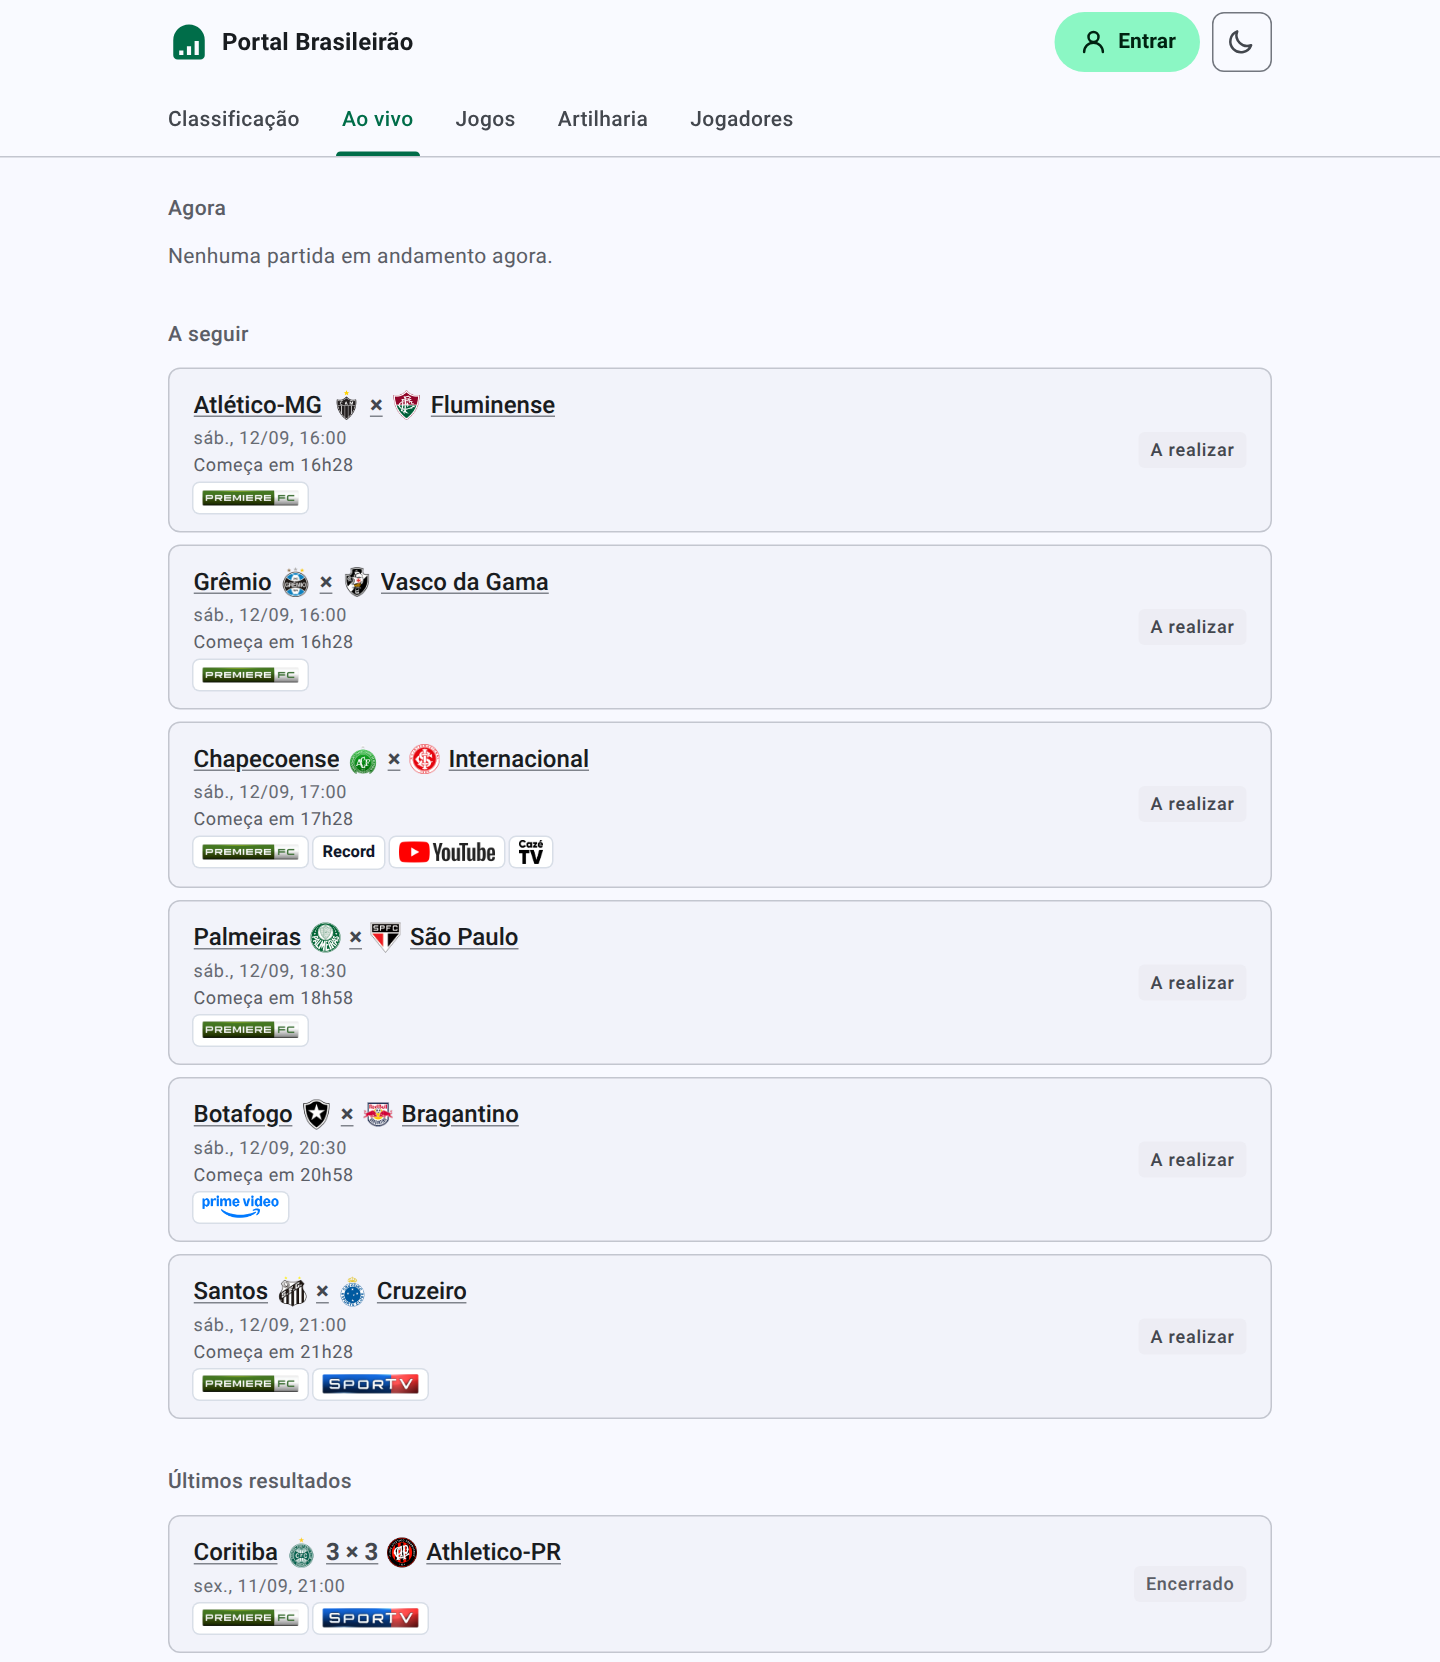
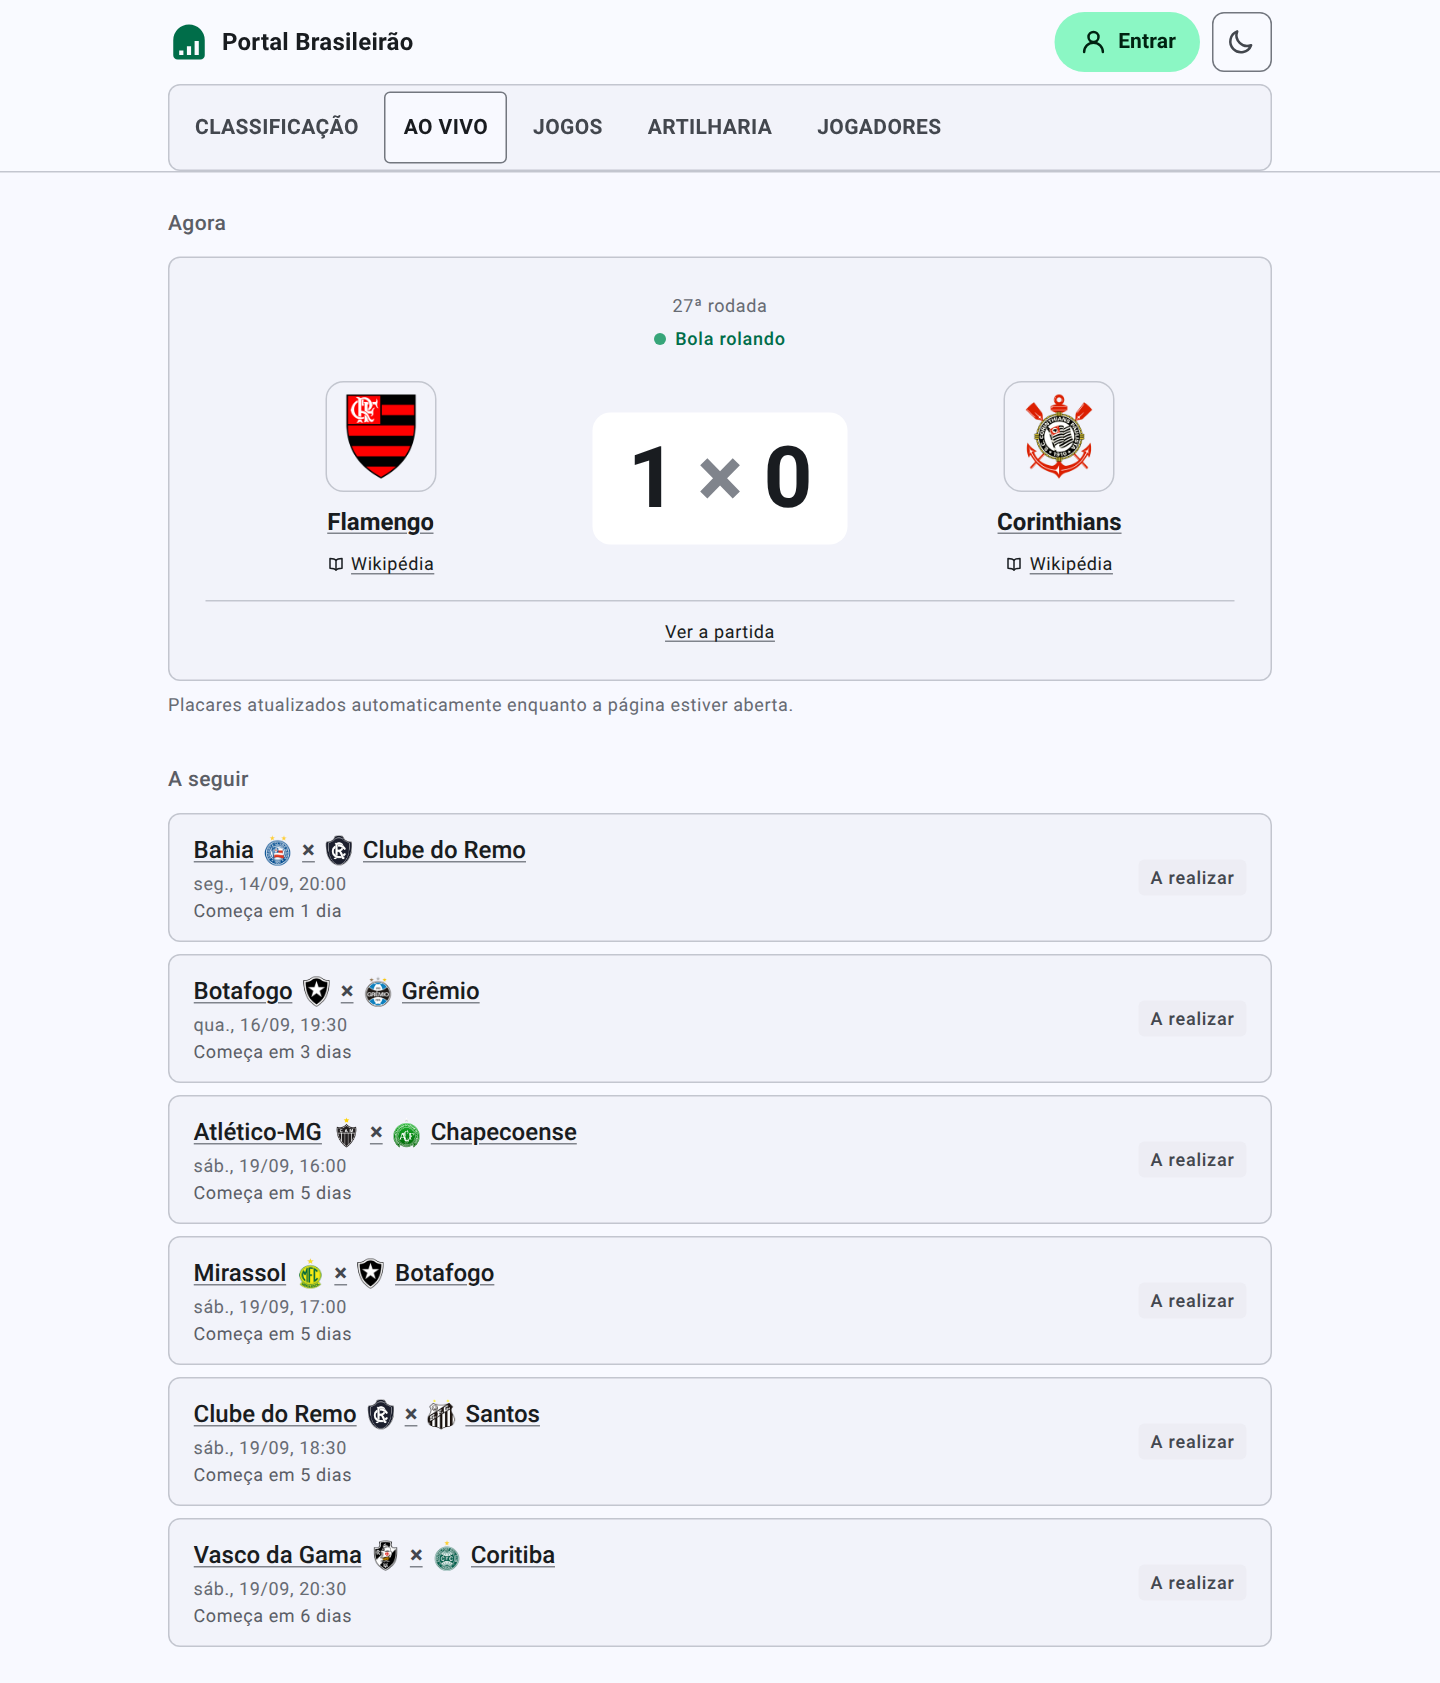
Re-shoot the Ao vivo screenshots for #601's scoreboard restyle
The live-card restyle in #601 (merged as ad4a25d) moved pixels inside
docs/screenshots/ao-vivo-{light,dark}.png — the "Agora" card now draws
the same bordered-crest, big-score scoreboard as the Partida page
instead of the old compact row. Re-shot from production at 097f3d5
(appearance-identical to ad4a25d: the one intervening commit only
touched club-discord.ts, outside scripts/appearance-paths.txt).

The bigger card also pushed the crop boundary to end partway through
"A seguir" rather than reaching "Últimos resultados", so both alt
texts are rewritten to describe the frame as it now is rather than as
it was.

diff --git a/README.md b/README.md
@@ -32,9 +32,9 @@ desktop shots above look no different. Five is Material Design 3's ceiling for t
 the bar is now at it: the labels fit at 375dp because the items carry no horizontal padding, and
 below 360dp the active indicator narrows rather than let the last destination fall off the edge.*
 
-![Página Ao vivo no tema claro, num momento sem jogo em curso: a secção Agora diz "Nenhuma partida em andamento agora." — o primeiro jogo da rodada já foi disputado e os outros são todos de amanhã. Abaixo, A seguir lista seis jogos, cada um com o nome de um clube, os dois escudos encostados ao × no meio e o nome do outro, a data, o horário, a contagem regressiva e a etiqueta A realizar, todos de sábado 12/09: Atlético-MG × Fluminense e Grêmio × Vasco da Gama às 16:00, ambos com o Premiere; Chapecoense × Internacional às 17:00, com Premiere, Record, YouTube e CazéTV; Palmeiras × São Paulo às 18:30, com o Premiere; Botafogo × Bragantino às 20:30, com o Prime Video; e Santos × Cruzeiro às 21:00, com Premiere e SporTV. Nenhum deles está a mais de um dia, por isso a contagem vem em horas e minutos em vez de dias — "Começa em 16h28" nos dois primeiros, e 17h28, 18h58, 20h58 e 21h28 nos seguintes. Por último, Últimos resultados abre com Coritiba 3 × 3 Athletico-PR de sexta 11/09 às 21:00, com os escudos encostados ao placar do mesmo modo, marcado Encerrado e com as marcas do Premiere e do SporTV, onde o enquadramento acaba](docs/screenshots/ao-vivo-light.png)
+![Página Ao vivo no tema claro, com um jogo em andamento: a secção Agora mostra um único cartão no estilo placar da página da partida — a 27ª rodada e, abaixo, Bola rolando com um ponto verde intermitente; o escudo do Flamengo numa moldura, o nome do clube sublinhado e um link para a Wikipédia por baixo; ao centro, o placar 1 × 0 numa caixa própria, maior que o resto do texto; o escudo do Corinthians na mesma moldura, com o mesmo nome sublinhado e a mesma ligação à Wikipédia; sob uma linha divisória, o link Ver a partida. Por baixo, a frase que avisa que os placares são atualizados automaticamente enquanto a página estiver aberta. Depois, A seguir lista seis jogos, cada um com o nome de um clube, os dois escudos encostados ao × no meio e o nome do outro, a data, o horário, a contagem regressiva e a etiqueta A realizar: Bahia × Clube do Remo, segunda 14/09 às 20:00, Começa em 1 dia; Botafogo × Grêmio, quarta 16/09 às 19:30, Começa em 3 dias; Atlético-MG × Chapecoense, Mirassol × Botafogo e Clube do Remo × Santos, todos de sábado 19/09 às 16:00, 17:00 e 18:30, Começa em 5 dias; e Vasco da Gama × Coritiba, também sábado 19/09 às 20:30, Começa em 6 dias — onde o enquadramento acaba, antes de chegar a Últimos resultados. Nenhum destes seis carrega marca de emissora nesta rodada](docs/screenshots/ao-vivo-light.png)
 
-![A mesma página Ao vivo no tema escuro, com a mesma secção Agora vazia, a mesma lista A seguir de seis jogos com as mesmas contagens regressivas, o mesmo último resultado a fechar o enquadramento e as marcas das emissoras mantendo o fundo claro para continuarem legíveis](docs/screenshots/ao-vivo-dark.png)
+![A mesma página Ao vivo no tema escuro, com o mesmo jogo em andamento no mesmo cartão-placar, o mesmo Flamengo 1 × 0 Corinthians com os mesmos links para a Wikipédia de cada lado, a mesma lista A seguir de seis jogos com as mesmas contagens regressivas, terminando no mesmo ponto antes de Últimos resultados](docs/screenshots/ao-vivo-dark.png)
 
 *Ao vivo, light and dark — what is being played now, what is next, and what just finished.
 Matches in progress get a card each rather than a row, so simultaneous kickoffs are all
